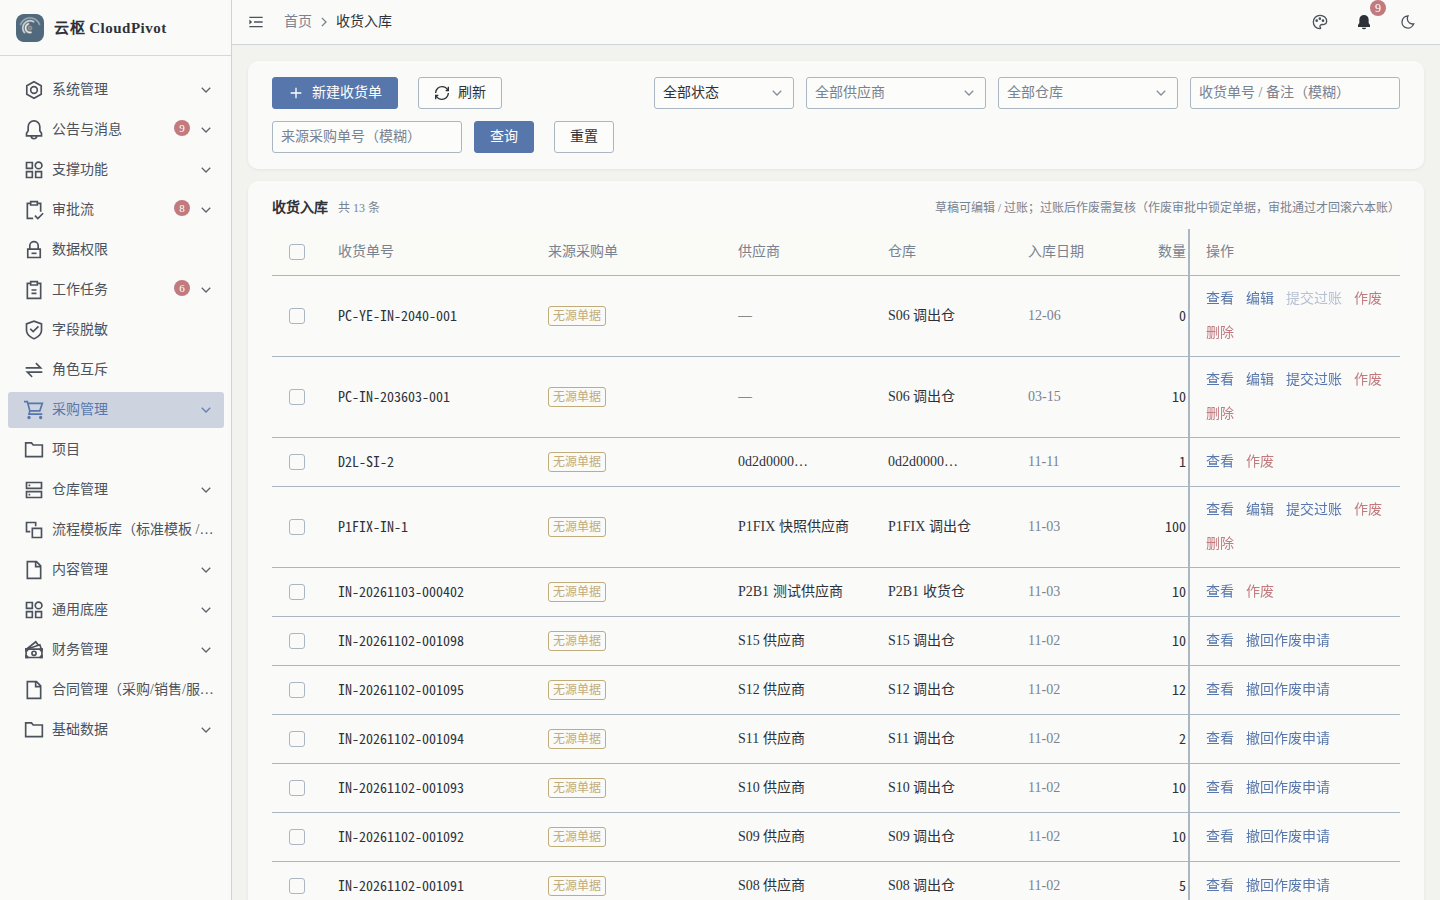
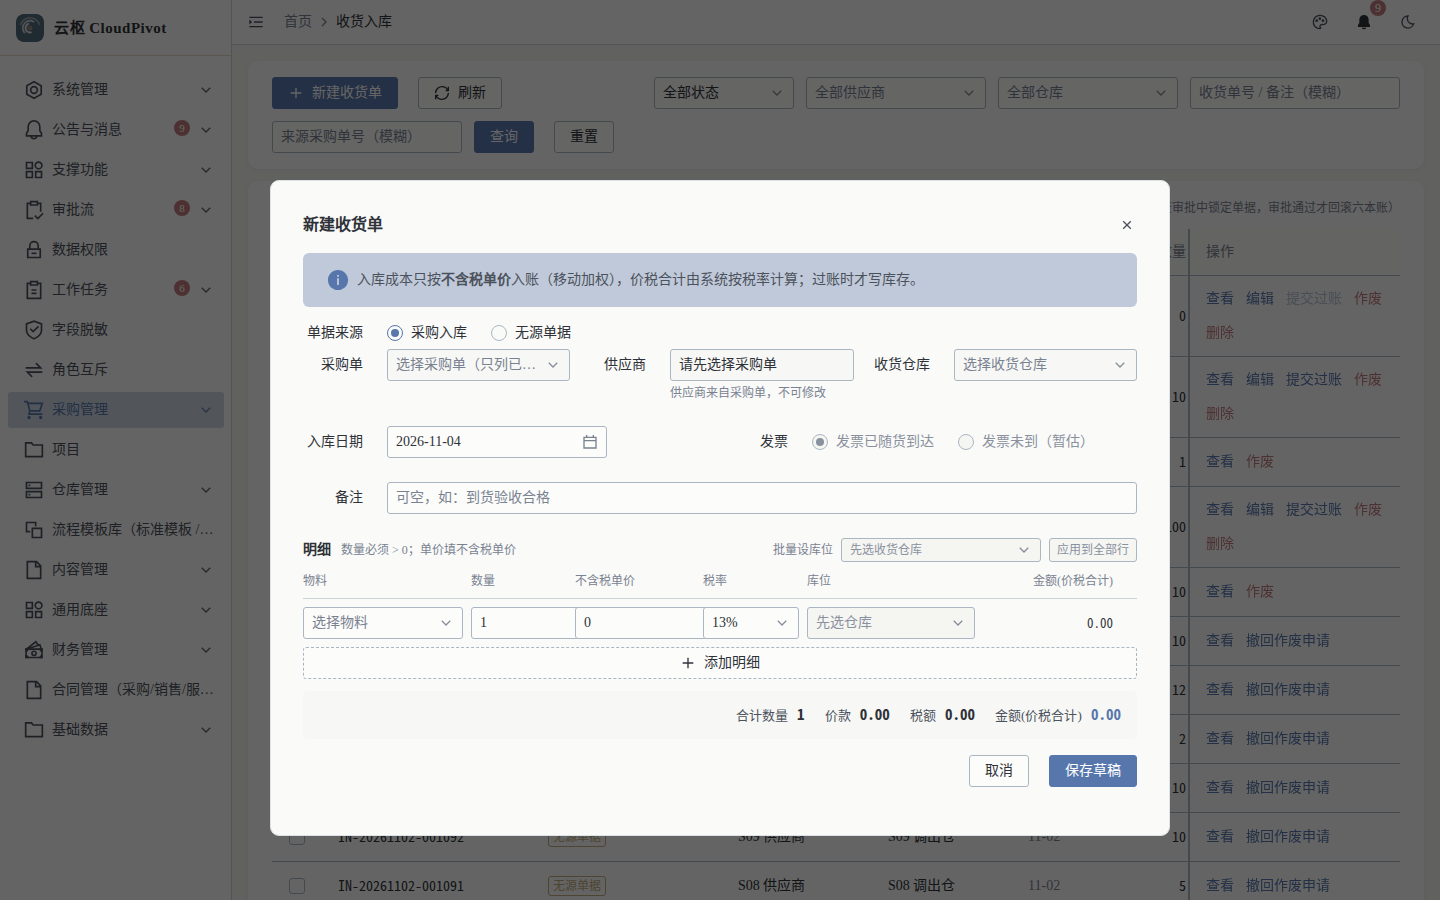
docs(manual): 修正收货/调拨/审批流截图与文案（新建表单实为弹窗，原截图误截列表）(t_e3ea6c5a)

diff --git a/docs/manual/04-收货入库.md b/docs/manual/04-收货入库.md
@@ -50,13 +50,18 @@
 
 ![收货单表单](images/stockin/03-stockin-create-form.png)
 
-填写要点：
+填写要点（截图实测字段）：
 
-1. **来源采购单**：选择后自动带出供应商、物料与未收数量（也可手工建无来源收货单）
-2. **仓库**：必须选；库位可在明细行选择
-3. **明细行**：物料、库位、数量、不含税单价、税率（金额自动算）
-4. 多行同税率可用 `应用到全部行`
-5. `保存草稿` → 核对后再 `确认过账`
+1. **单据来源**：`采购入库`（关联采购单，供应商与物料自动带出、供应商不可改）或 `无源单据`（手工收货）
+2. **收货仓库**：必须选
+3. **入库日期**：默认当天
+4. **发票**：`发票已随货到达` / `发票未到（暂估）`——暂估入库后续到票要冲回
+5. **备注**：可空，如「到货验收合格」
+6. **明细行**：物料、数量（> 0）、不含税单价、税率、库位
+   - 顶部可「批量设库位」并「应用到全部行」
+7. `保存草稿` → 核对后再 `确认过账`
+
+> 明细提示原文：`数量必须 > 0；单价填不含税单价`；`入库成本只按不含税单价入账（移动加权），价税合计由系统按税率计算；过账时才写库存。`
 
 > 收货数量不能超过采购单「待收」；超收要被拒。
 

diff --git a/docs/manual/07-库存调拨.md b/docs/manual/07-库存调拨.md
@@ -49,14 +49,13 @@
 
 ![新建调拨单](images/transfer/03-transfer-create-form.png)
 
-填写：
+填写（截图实测字段）：调出仓、调入仓（不能相同）、调拨日期、原因、明细（物料 / 数量 / 序列号）。
 
-1. **调出仓 / 调入仓**（不能是同一个仓）
-2. **调拨日期**
-3. 明细：`从库存选择`（按可用量挑货）或 `添加明细` 手工录
-   - 序列号物料要指定序列号
-   - 可指定调出库位
+1. **调出仓 / 调入仓**：不能是同一个仓
+2. **调拨日期**、**原因**（如「分仓补货」，会进摘要）
+3. 明细：`从库存选择`（按可用量挑货）或 `添加明细` 手工录；一物一码物料必须逐个选序列号（个数 = 数量）
 4. `保存草稿` → 核对 → `提交审批`
+5. 库位维度在**详情 / 发货**环节确认（新建表单只填物料、数量、序列号）
 
 > `从库存选择` 支持 `按数量全选` / `清空`，避免手敲数量出错。
 

diff --git a/docs/manual/02-审批流.md b/docs/manual/02-审批流.md
@@ -66,7 +66,8 @@
 
 要点：
 
-- **已发布的版本不能直接改**，系统会要求「另存为新草稿」再改（真实提示：`版本已发布，不能直接编辑（请先「另存为新草稿」再改）`）。
+- 画布左侧是**节点面板**：开始 / 任务 / 审批 / 会签 / 条件 / 并行 / 抄送 / 通知 / 结束；中间是图，右侧是选中节点的属性面板。
+- **已发布的版本是只读的**，顶部横幅原文：`v2 已发布，如需修改请另存新草稿（已发布版本的图不可静默修改）`，点横幅里的「另存为新草稿」再改（后端文案：`版本已发布，不能直接编辑（请先「另存为新草稿」再改）`）。
 - 发布前先点「校验」，图校验不通过不允许发布。
 
 ### 步骤 3　从模板库复制流程
